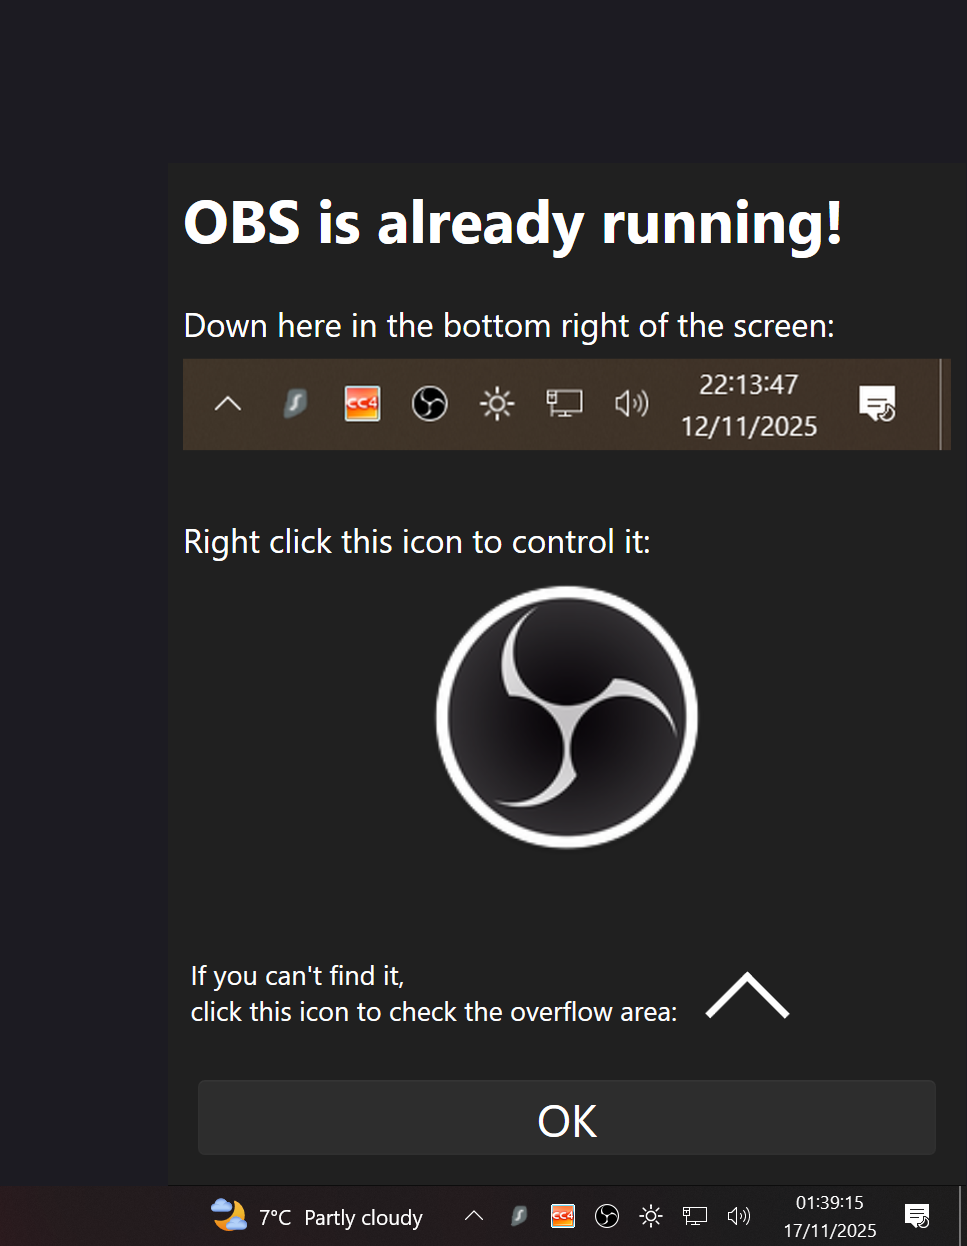
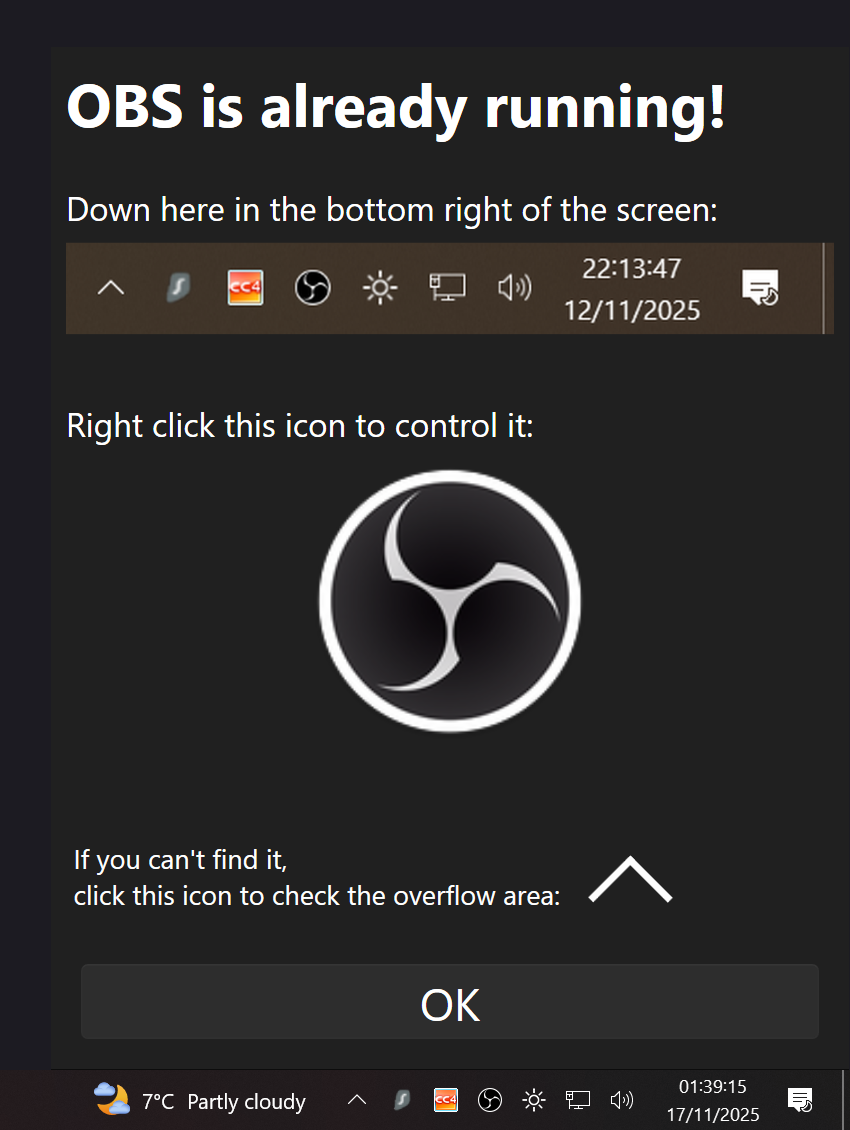
docs: adjust readme preview size

diff --git a/.github/README.md b/.github/README.md
@@ -5,7 +5,7 @@
 
 <div align="center">
 
-<img style="width: 75%; height: 75%" src="https://github.com/sjain882/App-SingleInstanceTrayGuide-Win/blob/main/.github/Previews/TrayGuideWindow/Dark.png?raw=true"/>
+<img style="width: 40%; height: 40%" src="https://github.com/sjain882/App-SingleInstanceTrayGuide-Win/blob/main/.github/Previews/TrayGuideWindow/Dark.png?raw=true"/>
 
 <br>
 <br>
